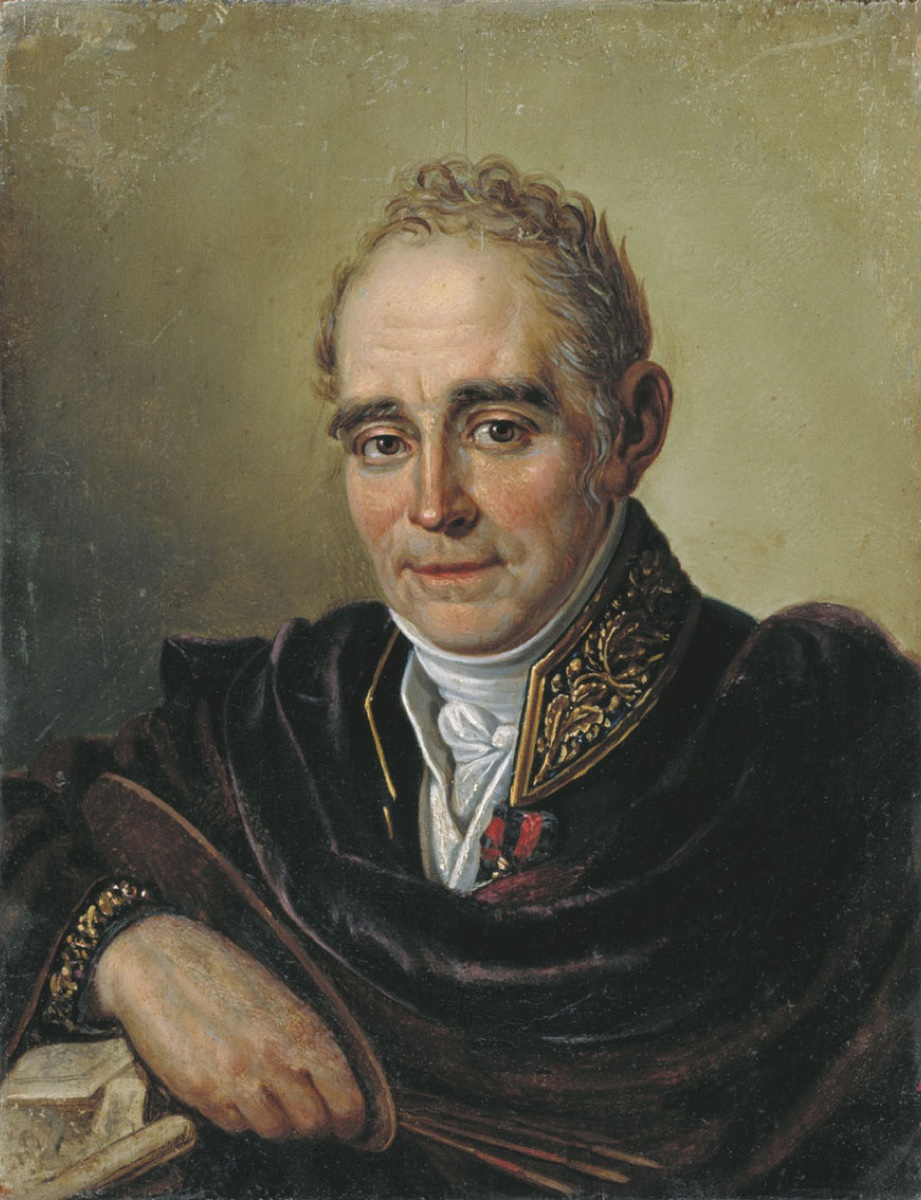
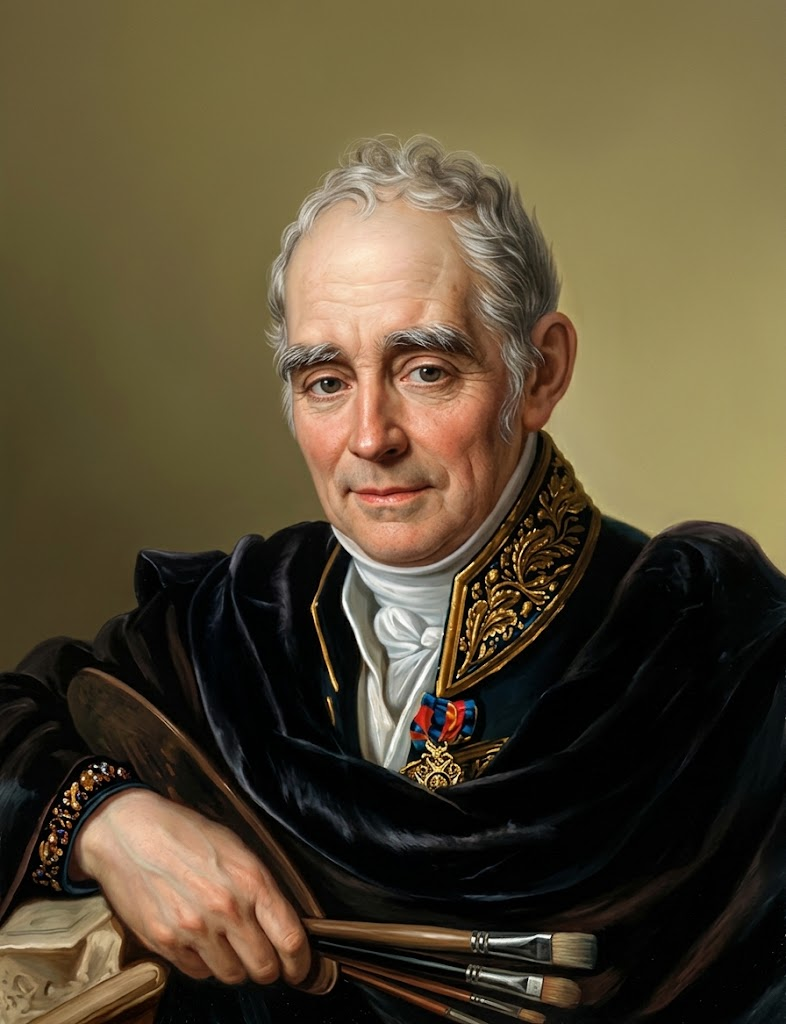
Approve Semenko, Borovykovskyi and Nalepynska-Boichuk with AI-colorized portraits (Borovykovskyi's painting AI-restored)

diff --git a/src/content/people/uk/sofiia-nalepynska-boichuk.md b/src/content/people/uk/sofiia-nalepynska-boichuk.md
@@ -21,6 +21,7 @@ image:
   author: "Невідомий автор"
   license: "Public domain"
   source_url: "https://commons.wikimedia.org/wiki/File:Софья_Налепинская_(cropped).jpg"
+  ai_edit: colorized
 key_accomplishments:
   - "Керувала ксилографічною майстернею поліграфічного факультету Київського художнього інституту (1922–1929)"
   - "Гравюри «Фабзаєць» (1925), «Дівчата з книжкою», «Голодні діти» (обидві - 1927), «Пацифікація Західної України» (1930)"
@@ -36,7 +37,8 @@ sources:
     url: https://uk.wikipedia.org/wiki/Софія_Налепинська-Бойчук
 related: [mykhailo-boichuk, taras-shevchenko]
 collections: [executed-renaissance]
-status: draft
+status: approved
+published: 2026-10-18T02:43:00Z
 ---
 
 ## Дівчина з Лодзі

diff --git a/src/content/people/uk/volodymyr-borovykovskyi.md b/src/content/people/uk/volodymyr-borovykovskyi.md
@@ -21,6 +21,7 @@ image:
   author: "Іван Бугаєвський-Благодарний"
   license: "Public domain"
   source_url: "https://commons.wikimedia.org/wiki/File:Borovikovsky_By_Bugaevsky_Blagodatny.jpg"
+  ai_edit: restored
 key_accomplishments:
   - "Розписи, ікони та іконостаси для храмів Полтавщини, портрети козацької старшини"
   - "Академік (1795) і радник (1802) Петербурзької академії мистецтв"
@@ -37,7 +38,8 @@ sources:
     url: "https://lb.ua/blog/art_calendar/302473_18_kvitnya_volodimir_borovikovskiy.html"
   - title: Вікіпедія - Боровиковський Володимир Лукич
     url: https://uk.wikipedia.org/wiki/Володимир_Боровиковський
-status: draft
+status: approved
+published: 2026-10-18T02:41:43Z
 ---
 
 ## Іконописець із Миргорода

diff --git a/src/content/people/uk/mykhail-semenko.md b/src/content/people/uk/mykhail-semenko.md
@@ -22,6 +22,7 @@ image:
   author: "О. Кореневич"
   license: "Public domain"
   source_url: "https://commons.wikimedia.org/wiki/File:Mychaylo_Semenko.jpg"
+  ai_edit: colorized
 key_accomplishments:
   - "Збірки «Дерзання» і «Кверофутуризм» з маніфестами, які започаткували український футуризм"
   - "Засновник футуристичних груп: «Флямінго», «Аспанфут», «Комункульт», «Нова генерація»"
@@ -41,7 +42,8 @@ sources:
     url: "https://zaxid.net/bezslavne_stolittya_n1515522"
 related: [taras-shevchenko, mykhailo-yalovyi, maik-yohansen, oleksa-slisarenko]
 collections: [executed-renaissance]
-status: draft
+status: approved
+published: 2026-10-18T02:30:17Z
 ---
 
 ## «Я палю свій „Кобзар“»
